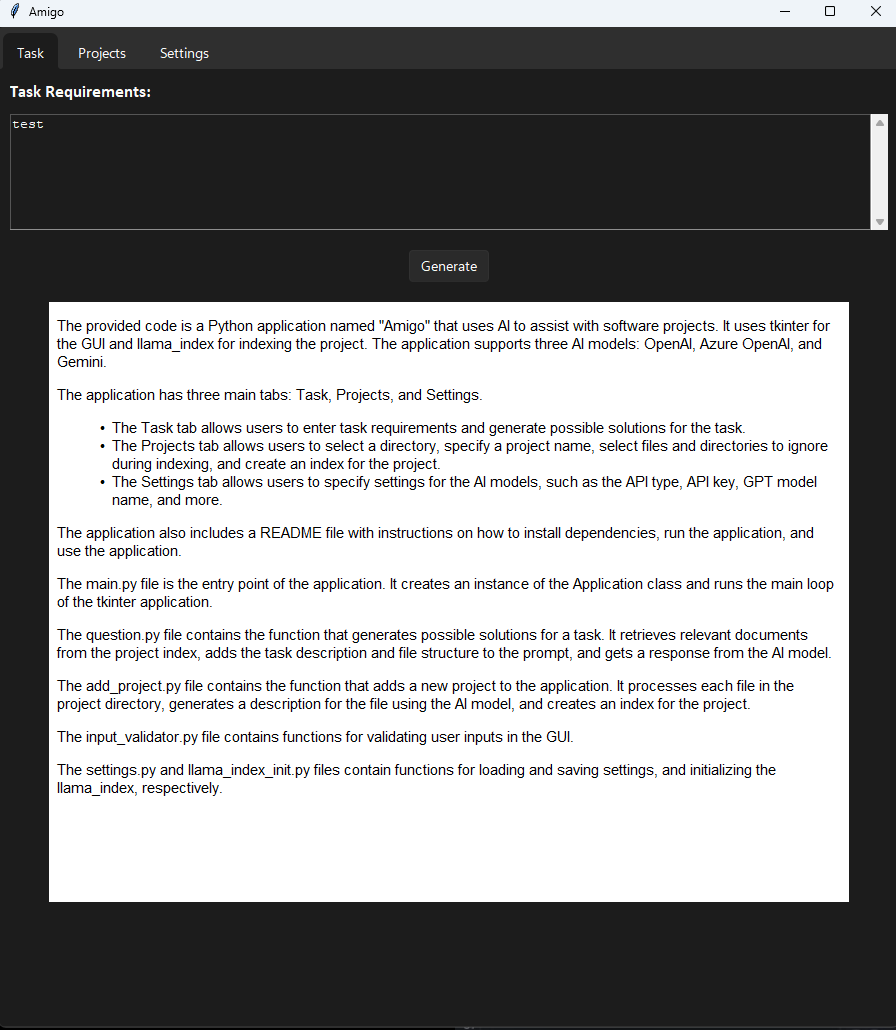
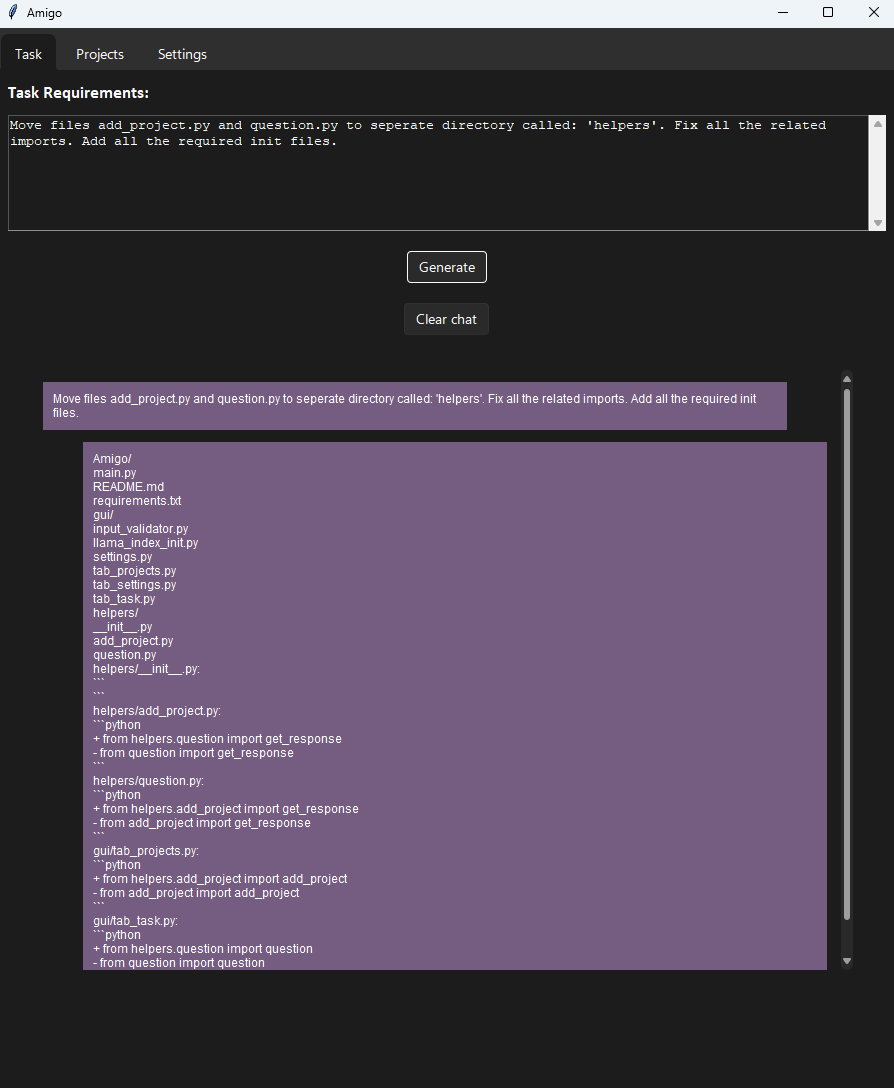
Updated UI Tab - Tasks: chat like interface

diff --git a/gui/tab_task.py b/gui/tab_task.py
@@ -1,11 +1,14 @@
 import os
 import tempfile
-from tkinter import ttk, scrolledtext
+import threading
+from tkinter import ttk, scrolledtext, messagebox
 import tkinter as tk
+
+from llama_index.llms import ChatMessage
 
 from gui.input_validator import Properties, validate
 from gui.llama_index_init import init_llama_index
-from question import question
+from helpers.question import question
 from tkinterweb import HtmlFrame
 
 
@@ -24,10 +27,22 @@ class TaskTab:
         self.run_generation_button = ttk.Button(frame, text="Generate", command=self.generate_answer)
         self.run_generation_button.pack(padx=10, pady=10)
 
+        # Clear chat Button
+        self.run_generation_button = ttk.Button(frame, text="Clear chat", command=self.clear_chat)
+        self.run_generation_button.pack(padx=10, pady=10)
+
         # Generation Response Field
         self.generation_response_frame = ttk.Frame(self.frame)
-        self.generation_response_frame.pack(fill=tk.BOTH, padx=10, pady=10, expand=True)
         self.generation_response = HtmlFrame(self.generation_response_frame)
+
+        # Loading screen
+        self.loading_frame = ttk.Frame(self.frame)
+        self.loader = HtmlFrame(self.loading_frame)
+        self.load_loading_page()
+
+    def clear_chat(self):
+        self.root.messages = []
+        self.load_web_page()
 
     def generate_answer(self):
         is_valid = validate(self.root, [
@@ -48,26 +63,61 @@ class TaskTab:
 
         init_llama_index(self.root, api_type)
 
+        self.generation_response_frame.place_forget()
+        self.loading_frame.place(y=300, x=0, relwidth=1, height=900)
+
+        if not self.root.messages:
+            self.root.messages.append(
+                ChatMessage(role="system", content=prompt)
+            )
+
         try:
-            response = question(
+            thread = threading.Thread(target=question, args=(
                 project_name,
                 task_requirements,
                 prompt,
                 max_tokens,
                 self.root
-            )
+            ))
 
-            self.load_web_page(response)
+            thread.start()
+
         except Exception as e:
-            self.load_web_page(str(e))
+            messagebox.showerror("Error", "Error occurred while generating response: \n" + str(e))
+            self.root.messages = []
 
-    def load_web_page(self, text):
-        text = text.replace("\n", "<br>")
+    def load_web_page(self):
         tempfile.NamedTemporaryFile(mode='w')
         f = open("temp.html", 'w')
-        f.write(f"<html><body>{text}</body></html>")
+        f.write("<html><body style='background: rgb(28, 28, 28)'>")
+        for message in self.root.messages:
+            content = message.content.replace("\n", "<br>")
+            if message.role == "system":
+                continue
+            if message.role == "user":
+                f.write(f"<p style='color: rgb(255, 255, 255); font-size: 12px; font-family: Arial; margin-right: "
+                        f"40px; border-radius: 0 12px 12px 0; background: "
+                        f"rgb(117, 92, 129); padding: 10px;'>{content}</p>")
+            if message.role == "assistant":
+                f.write(f"<p style='color: rgb(255, 255, 255); font-size: 12px; font-family: Arial; margin-left: "
+                        f"40px; border-radius: 12px 0 0 12px; background: rgb(117, 92, 129); padding: 10px'>{content}</p>")
+
+        f.write("</body></html>")
         f.flush()
         f.close()
         self.generation_response.load_file(os.path.abspath(f.name), force=True)
         self.generation_response.pack()
+        return True
+
+    def load_loading_page(self):
+        tempfile.NamedTemporaryFile(mode='r')
+        loading_animation = os.path.abspath("assets/loading.png").replace('\\', '/')
+        tempfile.NamedTemporaryFile(mode='w')
+        f = open("loading.html", 'w')
+        f.write(f"<html><body style='background-color: rgb(28, 28, 28)'><img src='file:///{loading_animation}' style"
+                f"='width: 300px; height: 300px; margin: auto; display: block; padding-top: 100px'></body></html>")
+        f.flush()
+        f.close()
+        self.loader.load_file(os.path.abspath("loading.html"), force=True)
+        self.loader.pack()
         return True

diff --git a/helpers/question.py b/helpers/question.py
@@ -1,0 +1,79 @@
+from llama_index import StorageContext, load_index_from_storage
+import tiktoken
+from llama_index.llms import ChatMessage
+
+from helpers.add_project import get_response
+
+
+def question(
+    selected_project,
+    task,
+    is_new_chat,
+    max_tokens,
+    gui
+):
+    # parse project name and project directory
+    selected_project = selected_project.split(" | ")
+    project_name = selected_project[0]
+    project_dir = selected_project[1]
+
+    if is_new_chat:
+        encoding = tiktoken.get_encoding("cl100k_base")
+
+        # rebuild storage context
+        storage_context = StorageContext.from_defaults(persist_dir="./storage")
+
+        # load index
+        index = load_index_from_storage(storage_context, project_name)
+        retriever = index.as_retriever(similarity_top_k=25)
+
+        # retrieve relevant documents
+        nodes = retriever.retrieve(task)
+
+        # add file structure to prompt:
+        f = open(project_dir + "/" + project_name + "/project_files_structure.txt", "r")
+        system_message = "Project file structure:\n\n" + f.read() + "\n\n"
+
+        # count tokens
+        num_tokens = len(encoding.encode(task))
+        # if chat is not new, then Project file structure is already inside messages
+        if is_new_chat:
+            num_tokens += len(encoding.encode(system_message))
+        num_tokens += 5000  # add 5000 tokens wiggleroom for responses
+        for message in gui.messages:
+            num_tokens += len(encoding.encode(str(message)))
+
+        # iterate over documents that were the best matches
+        for node in nodes:
+            file_name = node.metadata['file_name'][:-4].replace("___", "/")
+            file_path = project_dir + "/" + file_name
+            # open file and read contents
+            with open(file_path, 'r') as file:
+                file_contents = file.read()
+                tokens = len(encoding.encode(file_contents))
+
+                # stop adding files to context if max_tokens is reached
+                if num_tokens + tokens > int(max_tokens):
+                    break
+
+                num_tokens += tokens
+                system_message += file_name + ":\n'''\n" + file_contents + "\n'''\n"
+
+        # ad task description to messages:
+        gui.messages.append(
+            ChatMessage(role="system", content=system_message)
+        )
+
+    # ad task description to messages:
+    gui.messages.append(
+        ChatMessage(role="user", content=task)
+    )
+
+    response = get_response(gui, gui.messages)
+
+    gui.messages.append(response)
+
+    gui.task_tab.loading_frame.place_forget()
+    gui.task_tab.generation_response_frame.place(y=300, x=0, relwidth=1, height=900)
+    gui.task_tab.load_web_page()
+    return

diff --git a/helpers/add_project.py b/helpers/add_project.py
@@ -1,7 +1,7 @@
 import os
 from time import sleep
 from llama_index import SimpleDirectoryReader, VectorStoreIndex
-from llama_index.llms import Gemini, OpenAI, AzureOpenAI
+from llama_index.llms import ChatMessage
 import tkinter as tk
 
 
@@ -85,7 +85,14 @@ def add_project(
             file_contents = f.read()
             f.close()
 
-            text = get_response(gui, file_contents)
+            messages = [
+                ChatMessage(role="system", content="You are an AI assistant that helps people describe what a certain "
+                                                   "blocks of code does."),
+                ChatMessage(role="user", content=f"Try to describe as best as you can what the following code does. "
+                                                 f"CODE:\n\n{file_contents}")
+            ]
+
+            text = get_response(gui, messages).content
 
             # skip if text is None - Error occurred
             if text is None:
@@ -118,11 +125,9 @@ def add_project(
     gui.projects_tab.generating_label.config(text="Done!")
 
 
-def get_response(gui, file_contents):
-    prompt = f"""
-        You are an AI assistant that helps people describe what a certain blocks of code does. 
-        Try to describe as best as you can what the following code does. CODE:\n\n{file_contents}"""
-    return gui.service_context.llm.complete(prompt).text
+def get_response(gui, messages):
+    response = gui.service_context.llm.chat(messages)
+    return response.message
 
 
 def list_files(startpath, skip_files, skip_directories):

diff --git a/main.py b/main.py
@@ -17,6 +17,7 @@ class Application(tk.Tk):
         self.style = Style()
         self.isLlamaInitialized = False
         sv_ttk.set_theme("dark")
+        self.messages = []
 
         self.style.configure('W.TButton', font=('calibri', 18, 'bold', 'underline'), borderwidth='4')
         self.style.configure('W.Label', font=('calibri', 13, 'bold'))

diff --git a/gui/tab_projects.py b/gui/tab_projects.py
@@ -2,7 +2,7 @@ import threading
 from tkinter import ttk, filedialog, messagebox
 import tkinter as tk
 
-from add_project import add_project
+from helpers.add_project import add_project
 from gui.input_validator import Properties, validate, is_api_type_set
 from gui.llama_index_init import init_llama_index
 
